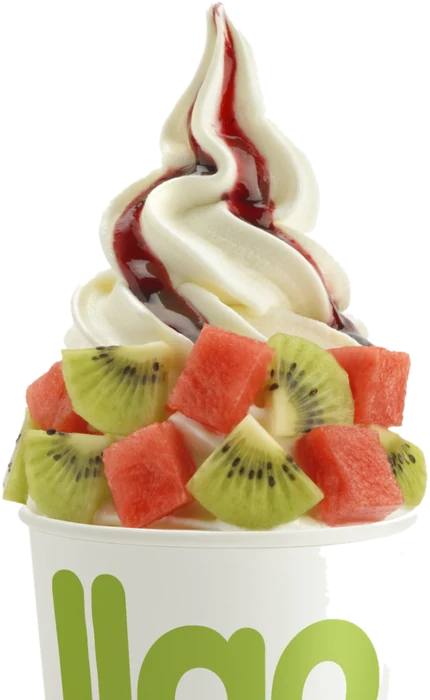
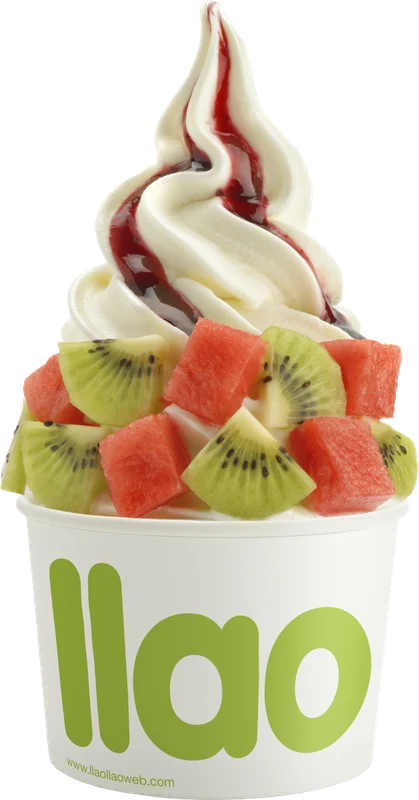
Usa la tarrina completa del brandbook (SVG) flotando en el hero
Claude-Session: https://claude.ai/code/session_01Jtvb6tU7A9LzaFXW7cjAPW

diff --git a/css/styles.css b/css/styles.css
@@ -106,15 +106,14 @@ p { margin: 0 0 1em; }
 
 /* ---------- Hero ---------- */
 .hero { background: var(--verde); position: relative; overflow: hidden; }
-.hero__tarrina { position: absolute; bottom: -14px; height: auto; pointer-events: none; filter: drop-shadow(0 -6px 24px rgba(39, 34, 24, .12)); transform-origin: 50% 100%; animation: balanceo 4.5s ease-in-out infinite; }
-.hero__tarrina--2 { animation-delay: -2.2s; animation-duration: 5.2s; }
-@keyframes balanceo {
-  0%, 100% { transform: translateY(6px) rotate(-3deg); }
-  50% { transform: translateY(-8px) rotate(3deg); }
+.hero__tarrina { position: absolute; height: auto; pointer-events: none; filter: drop-shadow(0 14px 20px rgba(39, 34, 24, .22)); animation: flotar 5s ease-in-out infinite; }
+.hero__tarrina--1 { width: 150px; right: 3%; top: 32px; --giro: 10deg; }
+.hero__tarrina--2 { width: 105px; left: 47%; bottom: 28px; --giro: -9deg; animation-delay: -1.8s; animation-duration: 5.6s; }
+.hero__tarrina--3 { width: 72px; right: 37%; top: 26px; --giro: 7deg; animation-delay: -3.4s; animation-duration: 4.6s; }
+@keyframes flotar {
+  0%, 100% { transform: translateY(0) rotate(var(--giro)); }
+  50% { transform: translateY(-12px) rotate(calc(var(--giro) * -0.4)); }
 }
-.hero__tarrina--1 { width: 200px; left: calc(50% - 30px); z-index: 0; }
-.hero__tarrina--2 { width: 170px; right: -30px; z-index: 0; }
-.hero__tarrina--3 { display: none; }
 .hero__grid { display: grid; grid-template-columns: 1.15fr .85fr; align-items: center; gap: 48px; padding-block: clamp(48px, 7vw, 88px); position: relative; z-index: 1; }
 .hero__texto p { font-weight: 600; font-size: 1.25rem; max-width: 34ch; }
 .hero__micro { margin-top: 18px; font-weight: 600; font-size: .95rem; }
@@ -276,8 +275,10 @@ p { margin: 0 0 1em; }
   .hero__grid { grid-template-columns: 1fr; gap: 32px; text-align: left; }
   .hero__texto .btn { width: 100%; }
   .hero__micro { text-align: center; }
-  .hero__tarrina--2 { display: none; }
-  .hero__tarrina--1 { width: 120px; left: auto; right: -24px; }
+  .hero__tarrina { z-index: 2; }
+  .hero__tarrina--1 { width: 64px; right: -6px; top: auto; bottom: 150px; }
+  .hero__tarrina--2 { width: 56px; left: -4px; bottom: 360px; }
+  .hero__tarrina--3 { display: none; }
 
   .beneficios { grid-template-columns: 1fr; gap: 12px; }
   .beneficio { display: grid; grid-template-columns: 56px 1fr; column-gap: 16px; align-items: center; padding: 16px 18px; border-radius: 20px; }
@@ -318,4 +319,5 @@ p { margin: 0 0 1em; }
   html { scroll-behavior: auto; }
   *, *::before, *::after { transition: none !important; animation: none !important; }
   .aparecer { opacity: 1; transform: none; }
+  .hero__tarrina { transform: rotate(var(--giro)); }
 }

diff --git a/index.html b/index.html
@@ -31,9 +31,9 @@
   <main id="contenido">
     <!-- 01 · Hero -->
     <section class="hero" aria-labelledby="titulo-hero">
-      <img class="hero__tarrina hero__tarrina--1" src="img/tarrina.webp" width="430" height="700" alt="" aria-hidden="true">
-      <img class="hero__tarrina hero__tarrina--2" src="img/tarrina.webp" width="430" height="700" alt="" aria-hidden="true">
-      <img class="hero__tarrina hero__tarrina--3" src="img/tarrina.webp" width="430" height="700" alt="" aria-hidden="true">
+      <img class="hero__tarrina hero__tarrina--1" src="img/tarrina.webp" width="419" height="800" alt="" aria-hidden="true">
+      <img class="hero__tarrina hero__tarrina--2" src="img/tarrina.webp" width="419" height="800" alt="" aria-hidden="true">
+      <img class="hero__tarrina hero__tarrina--3" src="img/tarrina.webp" width="419" height="800" alt="" aria-hidden="true">
       <div class="contenedor hero__grid">
         <div class="hero__texto">
           <h1 id="titulo-hero">Tu llaollao, más tuyo que nunca</h1>
